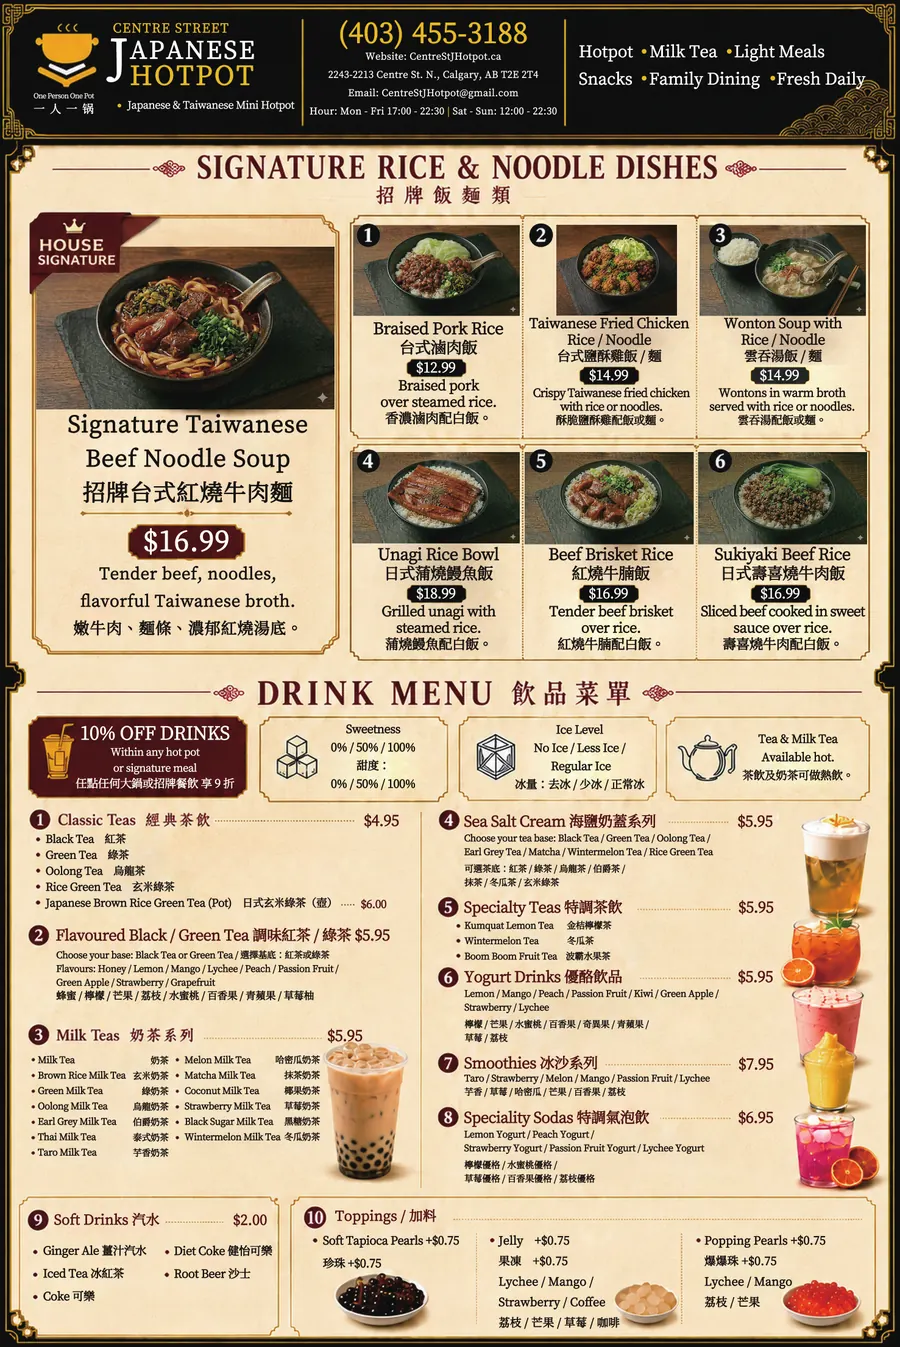
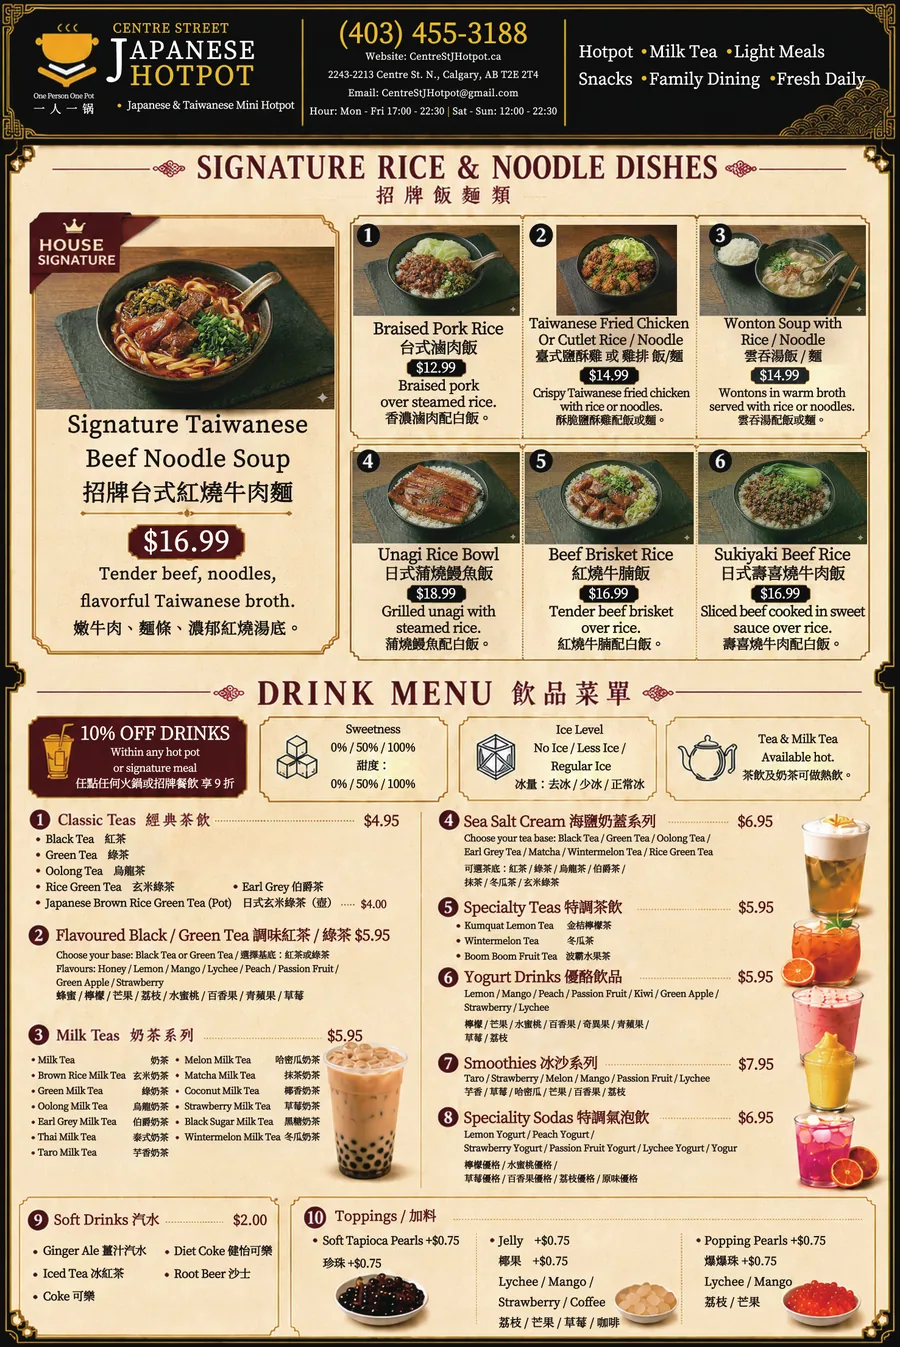
Update menu from latest PDF

diff --git a/public/menu/index.html b/public/menu/index.html
@@ -36,6 +36,16 @@
         "hasMenuSection": [
           {
             "@type": "MenuSection",
+            "name": "Hot Pot Set",
+            "hasMenuItem": [
+              {"@type": "MenuItem", "name": "Start with Your Hot Pot", "description": "Includes 1 soup base, large veggies set, 1 meat, and 1 rice or noodle side.", "offers": {"@type": "Offer", "price": "19.99", "priceCurrency": "CAD"}},
+              {"@type": "MenuItem", "name": "Split Pot Upgrade", "offers": {"@type": "Offer", "price": "2.00", "priceCurrency": "CAD"}},
+              {"@type": "MenuItem", "name": "Extra Meat", "offers": {"@type": "Offer", "price": "3.69", "priceCurrency": "CAD"}},
+              {"@type": "MenuItem", "name": "Extra Rice or Noodle Side", "offers": {"@type": "Offer", "price": "2.00", "priceCurrency": "CAD"}}
+            ]
+          },
+          {
+            "@type": "MenuSection",
             "name": "Hot Pot Soup Bases",
             "hasMenuItem": [
               {"@type": "MenuItem", "name": "Chicken & Spicy Pot"},
@@ -61,8 +71,24 @@
             "hasMenuItem": [
               {"@type": "MenuItem", "name": "Signature Taiwanese Fried Chicken", "offers": {"@type": "Offer", "price": "9.89", "priceCurrency": "CAD"}},
               {"@type": "MenuItem", "name": "Takoyaki (6pcs)", "offers": {"@type": "Offer", "price": "8.89", "priceCurrency": "CAD"}},
-              {"@type": "MenuItem", "name": "Golden Onion Rings", "offers": {"@type": "Offer", "price": "8.89", "priceCurrency": "CAD"}},
-              {"@type": "MenuItem", "name": "Edamame", "offers": {"@type": "Offer", "price": "5.89", "priceCurrency": "CAD"}}
+              {"@type": "MenuItem", "name": "Crispy Chicken Cutlet", "offers": {"@type": "Offer", "price": "9.89", "priceCurrency": "CAD"}},
+              {"@type": "MenuItem", "name": "Golden Fried Buns", "offers": {"@type": "Offer", "price": "6.89", "priceCurrency": "CAD"}},
+              {"@type": "MenuItem", "name": "Crispy Squid Legs", "offers": {"@type": "Offer", "price": "9.89", "priceCurrency": "CAD"}},
+              {"@type": "MenuItem", "name": "Popcorn Chicken", "offers": {"@type": "Offer", "price": "6.89", "priceCurrency": "CAD"}},
+              {"@type": "MenuItem", "name": "Golden Onion Rings", "offers": {"@type": "Offer", "price": "6.49", "priceCurrency": "CAD"}},
+              {"@type": "MenuItem", "name": "Edamame", "offers": {"@type": "Offer", "price": "6.49", "priceCurrency": "CAD"}}
+            ]
+          },
+          {
+            "@type": "MenuSection",
+            "name": "Drinks",
+            "hasMenuItem": [
+              {"@type": "MenuItem", "name": "Classic Teas", "offers": {"@type": "Offer", "price": "4.95", "priceCurrency": "CAD"}},
+              {"@type": "MenuItem", "name": "Milk Teas", "offers": {"@type": "Offer", "price": "5.95", "priceCurrency": "CAD"}},
+              {"@type": "MenuItem", "name": "Sea Salt Cream", "offers": {"@type": "Offer", "price": "6.95", "priceCurrency": "CAD"}},
+              {"@type": "MenuItem", "name": "Smoothies", "offers": {"@type": "Offer", "price": "7.95", "priceCurrency": "CAD"}},
+              {"@type": "MenuItem", "name": "Specialty Sodas", "offers": {"@type": "Offer", "price": "6.95", "priceCurrency": "CAD"}},
+              {"@type": "MenuItem", "name": "Soft Drinks", "offers": {"@type": "Offer", "price": "2.00", "priceCurrency": "CAD"}}
             ]
           }
         ]
@@ -121,6 +147,7 @@
           <article><h3>Included</h3><p>1 soup base, large veggie set, 1 meat, and 1 rice or noodle side.</p></article>
           <article><h3>Choose your meat</h3><p>AAA beef, lamb, pork, or chicken. Extra meat is $3.69.</p></article>
           <article><h3>Pick your side</h3><p>Rice, instant noodles, glass noodles, ramen, udon, or braised pork rice +$1.</p></article>
+          <article><h3>Add-ons</h3><p>Split pot +$2. Veggie set $9, shrimp (4pc) $6, tofu, beef balls, and other add-ons $3.</p></article>
         </div>
       </section>
 
@@ -177,7 +204,7 @@
             <img src="/assets/milk-tea-photo.webp" alt="Milk tea drinks at Centre Street Japanese HotPot Calgary" width="900" height="1200" loading="lazy" decoding="async" />
             <div>
               <span>Classic Teas $4.95</span><span>Flavoured Black / Green Tea $5.95</span>
-              <span>Milk Teas $5.95</span><span>Sea Salt Cream $5.95</span><span>Specialty Teas $5.95</span>
+              <span>Milk Teas $5.95</span><span>Sea Salt Cream $6.95</span><span>Specialty Teas $5.95</span>
               <span>Yogurt Drinks $5.95</span><span>Smoothies $7.95</span><span>Specialty Sodas $6.95</span>
               <span>Soft Drinks $2.00</span><span>Toppings +$0.75</span>
             </div>
@@ -199,16 +226,17 @@
           <article><h3>Deep Fried King Mushroom</h3><p>$7.89</p></article>
           <article><h3>Crispy Wontons (8pcs)</h3><p>$8.89</p></article>
           <article><h3>Deep Fried Dumplings (8pcs)</h3><p>$8.89</p></article>
-          <article><h3>Chicken Spring Rolls (6pc)</h3><p>$6.89</p></article>
-          <article><h3>Veggie Spring Rolls (6pc)</h3><p>$6.89</p></article>
-          <article><h3>French Fries</h3><p>$6.89</p></article>
-          <article><h3>Sweet Potato Fries</h3><p>$6.89</p></article>
-          <article><h3>Golden Onion Rings</h3><p>$8.89</p></article>
-          <article><h3>Fish Balls (6pc)</h3><p>$7.89</p></article>
-          <article><h3>Chinese Donut</h3><p>$6.89</p></article>
-          <article><h3>Luncheon Meat (Spam)</h3><p>$6.89</p></article>
-          <article><h3>Korean Fish Cake</h3><p>$6.89</p></article>
-          <article><h3>Edamame</h3><p>$5.89</p></article>
+          <article><h3>Chicken Spring Rolls (6pc)</h3><p>$8.89</p></article>
+          <article><h3>Veggie Spring Rolls (6pc)</h3><p>$8.89</p></article>
+          <article><h3>Popcorn Chicken</h3><p>$6.89</p></article>
+          <article><h3>French Fries</h3><p>$6.49</p></article>
+          <article><h3>Sweet Potato Fries</h3><p>$6.49</p></article>
+          <article><h3>Golden Onion Rings</h3><p>$6.49</p></article>
+          <article><h3>Fish Balls (6pc)</h3><p>$6.89</p></article>
+          <article><h3>Chinese Donut</h3><p>$6.49</p></article>
+          <article><h3>Luncheon Meat (Spam)</h3><p>$6.49</p></article>
+          <article><h3>Korean Fish Cake</h3><p>$6.49</p></article>
+          <article><h3>Edamame</h3><p>$6.49</p></article>
         </div>
       </section>
 

diff --git a/app/menu/page.tsx b/app/menu/page.tsx
@@ -54,23 +54,24 @@ const snacks = [
   ["Deep Fried King Mushroom", "$7.89"],
   ["Crispy Wontons (8pcs)", "$8.89"],
   ["Deep Fried Dumplings (8pcs)", "$8.89"],
-  ["Chicken Spring Rolls (6pc)", "$6.89"],
-  ["Veggie Spring Rolls (6pc)", "$6.89"],
-  ["French Fries", "$6.89"],
-  ["Sweet Potato Fries", "$6.89"],
-  ["Golden Onion Rings", "$8.89"],
-  ["Fish Balls (6pc)", "$7.89"],
-  ["Chinese Donut", "$6.89"],
-  ["Luncheon Meat (Spam)", "$6.89"],
-  ["Korean Fish Cake", "$6.89"],
-  ["Edamame", "$5.89"],
+  ["Chicken Spring Rolls (6pc)", "$8.89"],
+  ["Veggie Spring Rolls (6pc)", "$8.89"],
+  ["Popcorn Chicken", "$6.89"],
+  ["French Fries", "$6.49"],
+  ["Sweet Potato Fries", "$6.49"],
+  ["Golden Onion Rings", "$6.49"],
+  ["Fish Balls (6pc)", "$6.89"],
+  ["Chinese Donut", "$6.49"],
+  ["Luncheon Meat (Spam)", "$6.49"],
+  ["Korean Fish Cake", "$6.49"],
+  ["Edamame", "$6.49"],
 ];
 
 const drinks = [
   ["Classic Teas", "$4.95"],
   ["Flavoured Black / Green Tea", "$5.95"],
   ["Milk Teas", "$5.95"],
-  ["Sea Salt Cream", "$5.95"],
+  ["Sea Salt Cream", "$6.95"],
   ["Specialty Teas", "$5.95"],
   ["Yogurt Drinks", "$5.95"],
   ["Smoothies", "$7.95"],
@@ -132,6 +133,7 @@ export default function MenuPage() {
           <article><h3>Included</h3><p>1 soup base, large veggie set, 1 meat, and 1 rice or noodle side.</p></article>
           <article><h3>Choose your meat</h3><p>AAA beef, lamb, pork, or chicken. Extra meat is $3.69.</p></article>
           <article><h3>Pick your side</h3><p>Rice, instant noodles, glass noodles, ramen, udon, or braised pork rice +$1.</p></article>
+          <article><h3>Add-ons</h3><p>Split pot +$2. Veggie set $9, shrimp (4pc) $6, tofu, beef balls, and other add-ons $3.</p></article>
         </div>
       </section>
 

diff --git a/public/site.css b/public/site.css
@@ -261,7 +261,9 @@ h3 { font-size: 1.08rem; margin-bottom: 10px; }
 .category-strip strong { font-size: 0.96rem; line-height: 1.2; }
 .section-heading { margin-bottom: clamp(28px, 5vw, 46px); }
 .section-heading.compact { margin-bottom: 24px; }
-.set-grid, .snack-grid { display: grid; gap: 16px; grid-template-columns: repeat(3, 1fr); }
+.set-grid, .snack-grid { display: grid; gap: 16px; }
+.set-grid { grid-template-columns: repeat(auto-fit, minmax(220px, 1fr)); }
+.snack-grid { grid-template-columns: repeat(3, 1fr); }
 .visit-grid { display: grid; gap: 16px; grid-template-columns: repeat(auto-fit, minmax(220px, 1fr)); }
 .set-grid article, .snack-grid article, .visit-grid article { background: rgba(255, 243, 209, 0.72); border: 1px solid rgba(127, 23, 22, 0.12); border-left: 5px solid var(--gold); border-radius: 6px; color: var(--ink); cursor: default; padding: 24px; }
 .set-grid p, .snack-grid p, .visit-grid p { line-height: 1.55; margin-bottom: 0; }

diff --git a/app/globals.css b/app/globals.css
@@ -569,6 +569,13 @@ h3 {
 .snack-grid {
   display: grid;
   gap: 16px;
+}
+
+.set-grid {
+  grid-template-columns: repeat(auto-fit, minmax(220px, 1fr));
+}
+
+.snack-grid {
   grid-template-columns: repeat(3, 1fr);
 }
 
